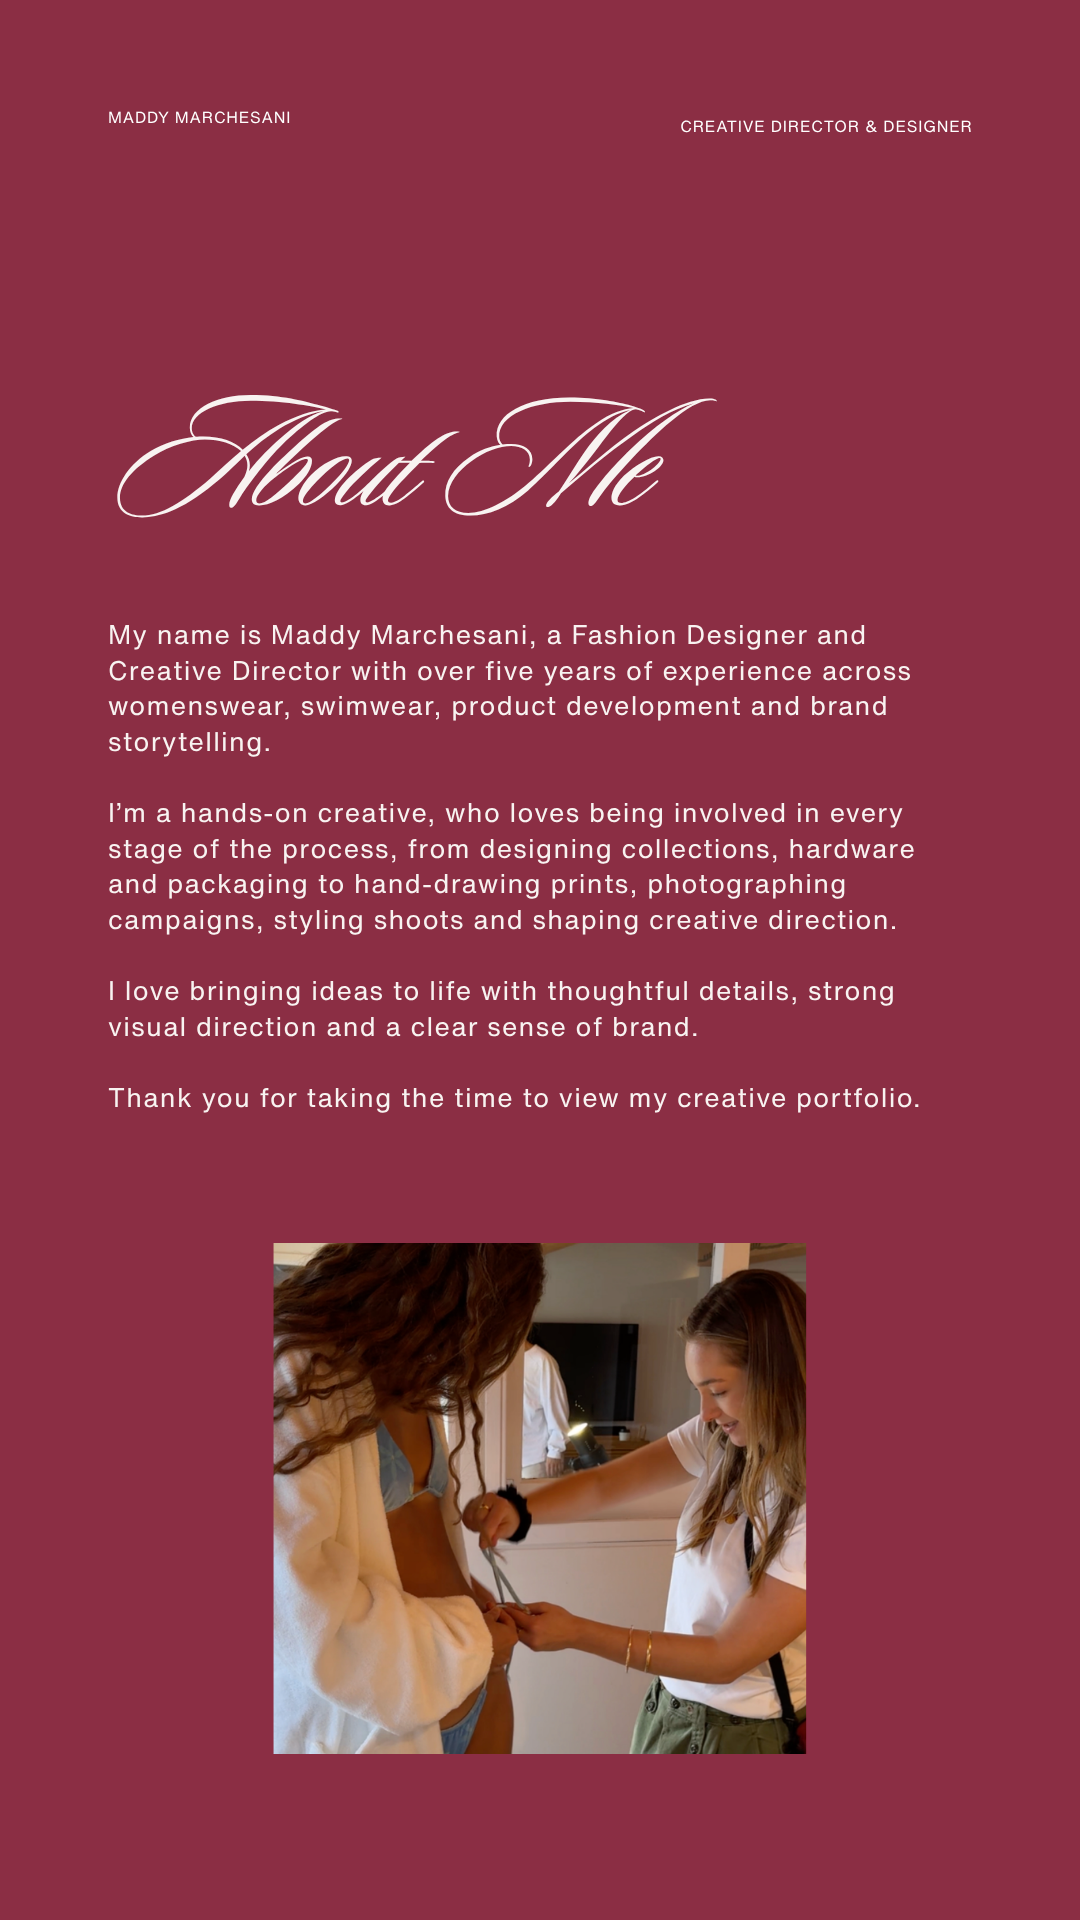
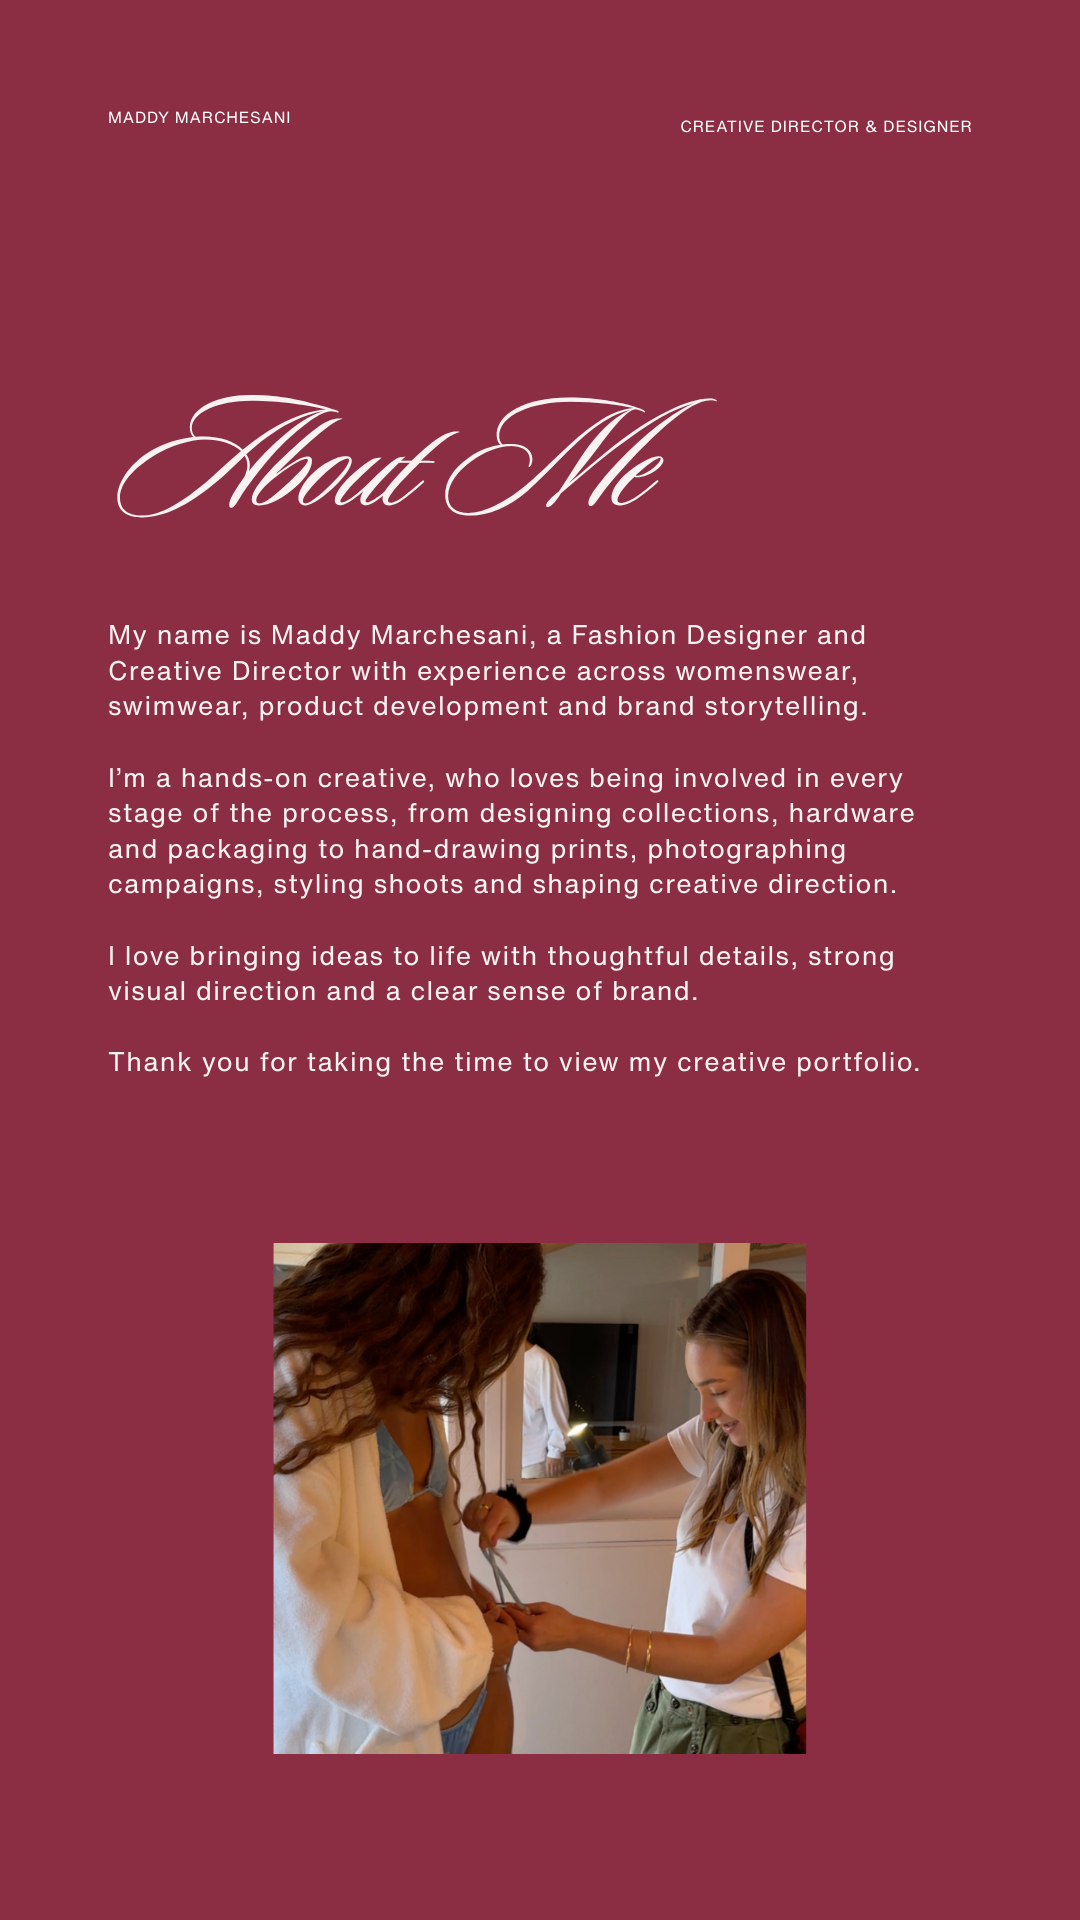
Add files via upload

Changed region(s): [[0.0917, 0.3438, 0.8556, 0.5938]]

diff --git a/about.html b/about.html
@@ -4,17 +4,30 @@
   <meta charset="utf-8">
   <meta name="viewport" content="width=device-width, initial-scale=1">
   <title>About Me | Maddy Marchesani Portfolio</title>
-  <link rel="stylesheet" href="assets/style.css?v=no-stack-fix">
+  <link rel="stylesheet" href="assets/style.css">
+  <style>
+    .about-desktop-img { display: block; width: 100%; height: auto; }
+    .about-mobile-img { display: none; width: 100%; height: auto; }
+
+    @media (max-width: 768px) {
+      .about-desktop-img { display: none !important; }
+      .about-mobile-img { display: block !important; }
+    }
+
+    @media (min-width: 769px) {
+      .about-desktop-img { display: block !important; }
+      .about-mobile-img { display: none !important; }
+    }
+  </style>
 </head>
 <body>
   <main class="svg-page" aria-label="About Me">
     <a class="back-arrow" href="contents.html" aria-label="Back">
       <svg viewBox="0 0 32 32" aria-hidden="true"><path d="M19 7.5L10.5 16L19 24.5"/><path d="M11 16H25"/></svg>
     </a>
-    <picture>
-      <source media="(max-width: 768px)" srcset="assets/pages/about-mobile.png">
-      <img class="design-bg" src="assets/pages/about.png" alt="About Me" draggable="false">
-    </picture>
+
+    <img class="design-bg about-desktop-img" src="assets/pages/about.png" alt="About Me" draggable="false">
+    <img class="design-bg about-mobile-img" src="assets/pages/about-mobile.png" alt="About Me mobile" draggable="false">
   </main>
 </body>
 </html>
